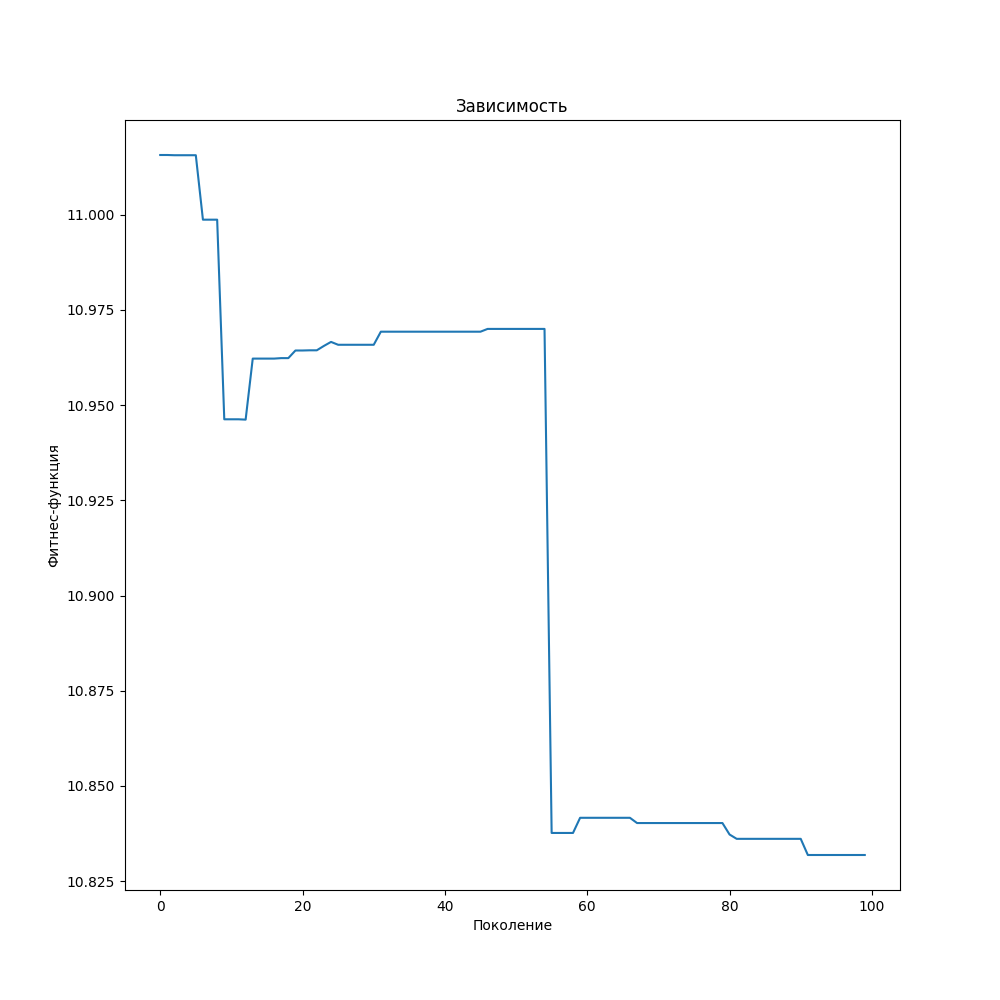
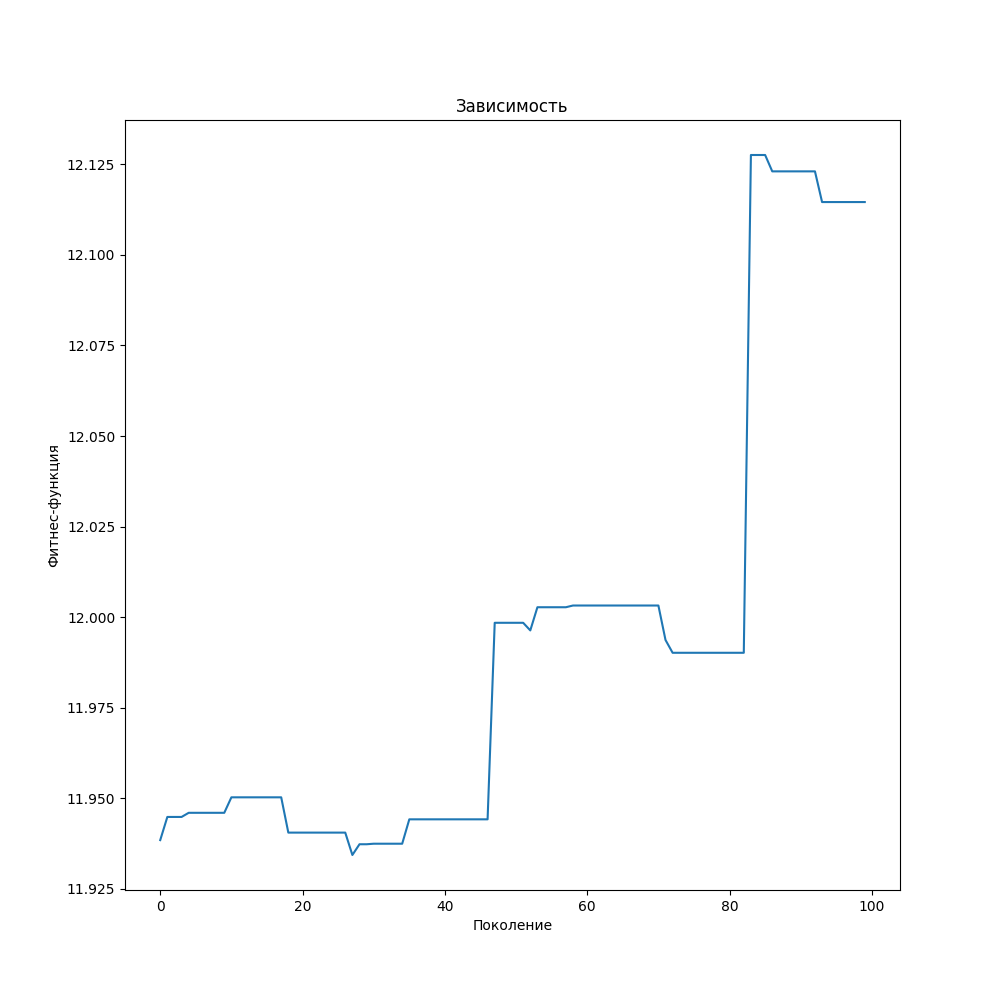
GA1: deleted old st. dev. calculation GA2: changed parents selection to random, deleted replacement of parents by children

diff --git a/GA2/gen_alg.py b/GA2/gen_alg.py
@@ -37,12 +37,10 @@ def probability_calculation(population, fitness):
 
 
 # -----------------------------------------------------------
-# Формируем выборку родителей исходя из их пригодности
+# Формируем выборку родителей случайным образом
 # -----------------------------------------------------------
-def selection(population, fitness, child_count):
-    population_fitness, chromosome_probabilities = probability_calculation(population, fitness)
-
-    parents = rng.choice(population, p=chromosome_probabilities, size=child_count, replace=False)
+def selection(population, child_count):
+    parents = rng.choice(population, p=None, size=child_count, replace=False)
     return parents
 
 
@@ -65,17 +63,6 @@ def get_parent_indices(k, parents_count):
 
 
 # -----------------------------------------------------------
-# Сортировка новых хромосом и вставка их вместо родителей
-# -----------------------------------------------------------
-def replace_parents_with_child(population, childs, parents):
-    childs[0].sort()
-    childs[1].sort()
-    population[np.where((population == parents[0]).all(-1))[0]] = childs[0]
-    population[np.where((population == parents[1]).all(-1))[0]] = childs[1]
-    return population
-
-
-# -----------------------------------------------------------
 # Двухточечный кроссовер
 # -----------------------------------------------------------
 def crossover(parents, gray_levels_len, child_count, population):
@@ -91,9 +78,9 @@ def crossover(parents, gray_levels_len, child_count, population):
         second_child = np.concatenate((parents[second_parent_index][:cross_points[0]],
                                        parents[first_parent_index][cross_points[0]:cross_points[1]],
                                        parents[second_parent_index][cross_points[1]:]))
-
-        population = replace_parents_with_child(population, [first_child, second_child], parents)
-
+        first_child.sort()
+        second_child.sort()
+        population = np.vstack([population, first_child, second_child])
     return population
 
 
@@ -164,11 +151,11 @@ def genetic_algorithm(image, population_size, crossover_rate, mutation_rate,
     fitness_values_array = []
 
     for generation in (range(generations_count)):
-        fitness = fitness_for_all_population(population, gray_levels, image_array)
+        fitness = fitness_for_all_population(new_population, gray_levels, image_array)
 
         fitness_values_array.append(max(fitness))
 
-        parents = selection(population, fitness, child_count)
+        parents = selection(new_population, child_count)
 
         new_population = crossover(parents, gray_levels_len, child_count, new_population)
 
@@ -179,6 +166,6 @@ def genetic_algorithm(image, population_size, crossover_rate, mutation_rate,
 
     print("---------------")
 
-    fitness = fitness_for_all_population(population, gray_levels, image_array)
+    fitness = fitness_for_all_population(new_population, gray_levels, image_array)
 
     return get_best_image(new_population, fitness, gray_levels, image_array)

diff --git a/GA1/transformation_kernel.py b/GA1/transformation_kernel.py
@@ -30,20 +30,10 @@ def average_brightness_value_calc(image, i, j, off):
 
 # -----------------------------------------------------------
 # Расчет среднеквадратического отклонения в окрестности
+# с добавлением области.
 # -----------------------------------------------------------
 @njit(fastmath=True, cache=True)
-def standard_deviation_calc(image, i, j, off):
-    i = i + off
-    j = j + off
-    return np.std(image[i - off: i + off + 1, j - off: j + off + 1])
-
-
-# -----------------------------------------------------------
-# Расчет среднеквадратического отклонения в окрестности
-# с добавлением черной области.
-# -----------------------------------------------------------
-@njit(fastmath=True, cache=True)
-def standard_deviation_n(image, i, j, av_br_val, n, off):
+def standard_deviation_calc(image, i, j, av_br_val, n, off):
     i = i + off
     j = j + off
     val = 0
@@ -92,9 +82,9 @@ def transformaton_calculation(image, image_bordered, n, off, global_brightness_v
     for i in numba.prange(0, image.shape[0]):
         for j in range(0, image.shape[1]):
             av_br_value = average_brightness_value_calc(image_bordered, i, j, off)
-            # st_dev_value = standard_deviation_calc(image_bordered, i, j, off)
-            st_dev_value = standard_deviation_n(image_bordered, i, j, av_br_value, n, off)
-            improved_image[i, j] = pixel_improvement(image[i, j], global_brightness_value, av_br_value, st_dev_value, params)
+            st_dev_value = standard_deviation_calc(image_bordered, i, j, av_br_value, n, off)
+            improved_image[i, j] = pixel_improvement(image[i, j], global_brightness_value, av_br_value, st_dev_value,
+                                                     params)
     return improved_image
 
 

diff --git a/GA2/main.py b/GA2/main.py
@@ -18,7 +18,7 @@ mutation_rate = 0.1
 
 generations_count = 80
 
-research_mode = True
+research_mode = False
 
 
 # -----------------------------------------------------------
@@ -143,7 +143,7 @@ def enhancement(path):
 
 
 if __name__ == '__main__':
-    file_name = '../imgs/Albert-Einstein.jpg'
+    file_name = '../imgs/camera_man_3.png'
     if research_mode == True:
         research_enhancement(file_name)
     else:
